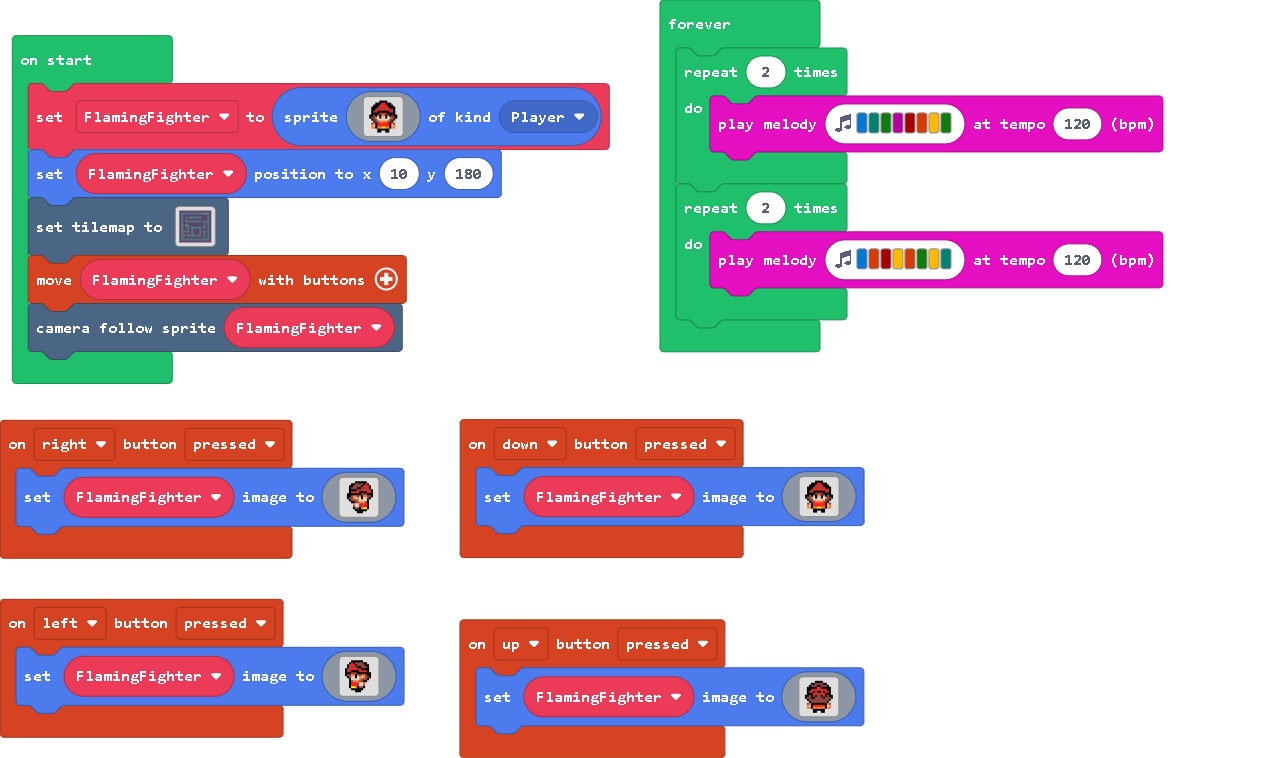
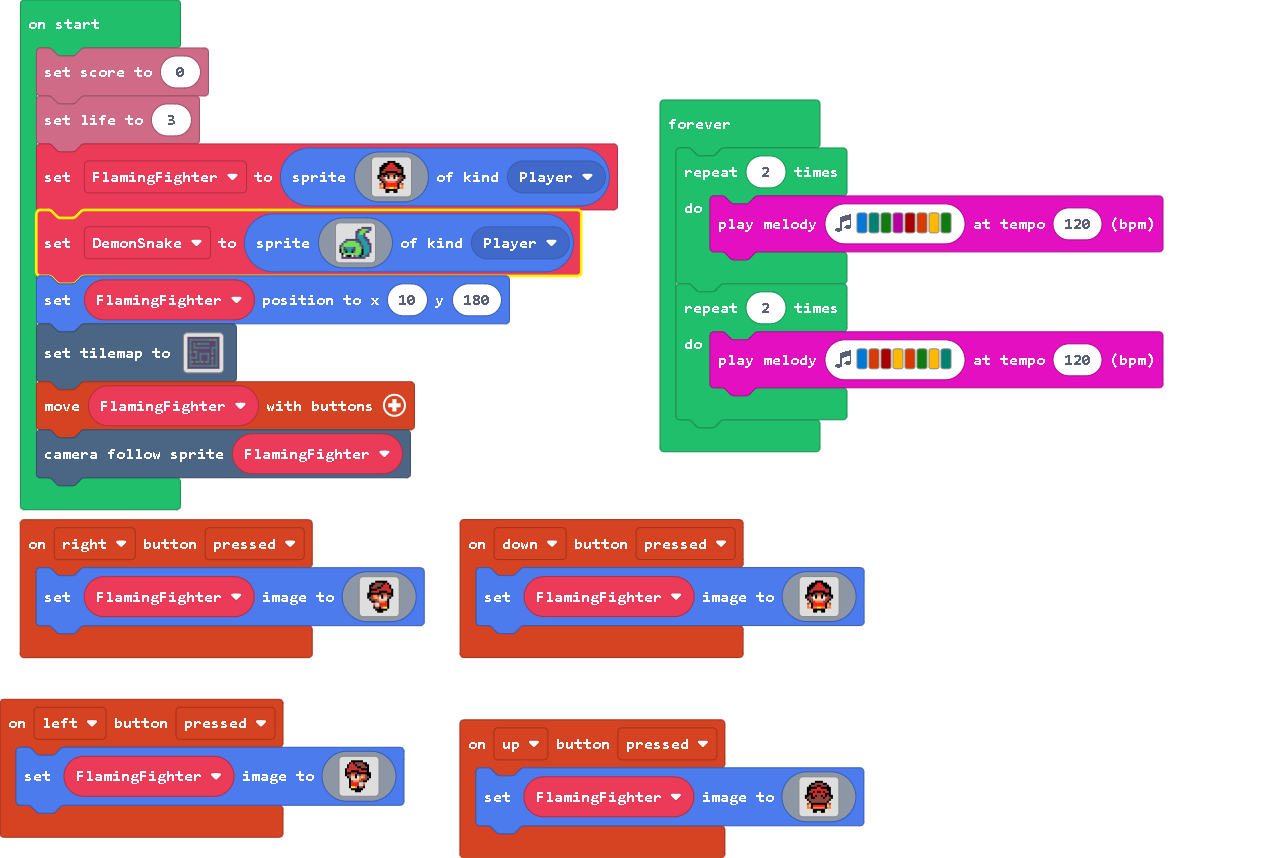
Update main.blocks, main.ts, images.g.jres, images.g.ts

diff --git a/images.g.ts b/images.g.ts
@@ -98,6 +98,25 @@ namespace myImages {
 . . . . . f f f f f f . . . . . 
 . . . . . f f . . f f . . . . . 
 `;
+            case "bM3{plxDKy{r~gPCkA?":
+            case "Demon Snake":return img`
+. . . . . . . . . . . c c c c c 
+. . . . . . . . . c c 7 7 7 6 c 
+. . . . . . . . c c 7 7 7 c c . 
+. . . . . . . . c 6 7 7 c . . . 
+. . . . . . . . c 6 6 6 c . . . 
+. . . . . . . . c 6 6 6 c c . . 
+. . . c c c c c c c 6 6 6 c c . 
+. . c 6 7 7 7 7 6 c c 6 6 6 c . 
+. c 7 7 7 7 7 7 7 7 c 6 6 6 c c 
+c 6 7 7 7 7 7 7 7 7 6 c 6 6 6 c 
+c 7 c 6 6 6 6 c 7 7 7 c 6 6 6 c 
+f 7 c c 6 6 c c 7 7 7 f 6 6 6 c 
+f 7 6 f 6 6 f 6 7 7 7 f 6 6 6 c 
+. f 7 7 7 7 7 7 7 7 6 f 6 6 c . 
+. c 1 c f f 1 c 7 6 f 6 6 c c . 
+. c c c c c c c c c c c c . . . 
+`;
         }
         return null;
     })

diff --git a/main.ts b/main.ts
@@ -11,7 +11,10 @@ controller.down.onEvent(ControllerButtonEvent.Pressed, function () {
     FlamingFighter.setImage(assets.image`Flaming Fighter - facing forwards`)
 })
 let FlamingFighter: Sprite = null
+info.setScore(0)
+info.setLife(3)
 FlamingFighter = sprites.create(assets.image`Flaming Fighter`, SpriteKind.Player)
+let DemonSnake = sprites.create(assets.image`Demon Snake`, SpriteKind.Player)
 FlamingFighter.setPosition(10, 180)
 tiles.setTilemap(tilemap`Level 1`)
 controller.moveSprite(FlamingFighter)
